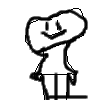
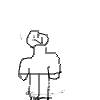
h

Changed region(s): [[0.18, 0.06, 0.9, 1.0]]

diff --git a/game/main.js b/game/main.js
@@ -7,6 +7,7 @@ kaboom();
 
 // load assets
 loadSprite("character", "character.png");
+loadSprite("character_jump", "character_jump.png")
 loadSound("jump", "jump.ogg")
 
 scene("game", () => {
@@ -38,6 +39,9 @@ scene("game", () => {
         if (player.isGrounded()) {
             player.jump(JUMP_FORCE);
             play("jump")
+        }
+        else {
+            player.play("character_jump")
         }
     }
 
